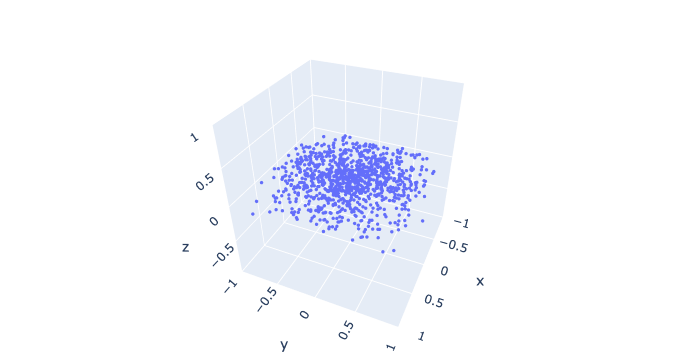
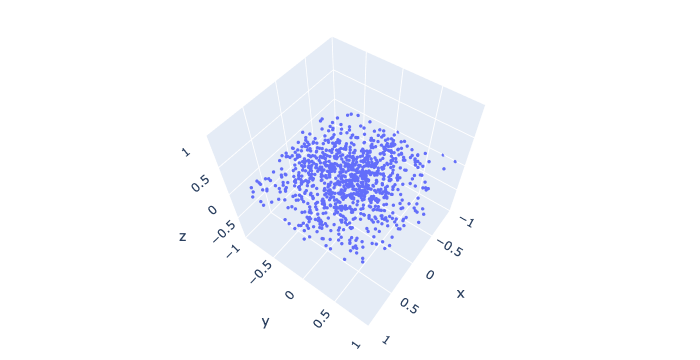
Did uniform disk for part 2. Also updated tent.png to an image that better shows the distribution

diff --git a/reports/assignment-2/report.md.html b/reports/assignment-2/report.md.html
@@ -29,7 +29,7 @@ For $t \in [0, 1]$:
 $$
 P_1(t) = P_1(0) + \int_{0}^{t} (1-s)ds = \frac{1}{2} + \left[s - \frac{s^2}{2}\right]_{0}^{t} = -\frac{t^2}{2} + t + \frac{1}{2}
 $$
-To find the inverse, we set $u = P_1(t)$ and solve for $t$.
+To find the inverse, set $u = P_1(t)$ and solve for $t$.
 
 For $u \in [0, 0.5]$, corresponding to $t \in [-1, 0]$:
 $$
@@ -48,8 +48,57 @@ $$
 t = P_1^{-1}(u) = \begin{cases} \sqrt{2u} - 1, & u \in [0, 0.5] \\ 1 - \sqrt{2 - 2u}, & u \in (0.5, 1] \end{cases}
 $$
 
-### Tent check_warp() Output
+### Tent visualize_warping_ui() Output
 ![Tent Distribution](images/tent.png)
+
+
+## Uniform Disk
+
+For a uniform distribution on a unit disk with radius $R = 1$ and area $A = $\pi R^2 = \pi$, the PDF is constant, $p(x,y) = 1/A = 1/\pi$. We map uniform samples $(u, v) \in [0,1]^2$ to polar coordinates $(r, \theta)$.
+
+The angle $\theta$ is uniformly distributed, so the mapping is direct:
+$$
+\theta = 2\pi v
+$$
+The probability density along the radius is not uniform. It is proportional to the radius, $p(r) \propto r$. Normalizing this PDF over $r \in [0, 1]$ gives $p(r) = 2r$.
+
+The probability density function (PDF) for the radius, $p(r)$, must be normalized so its integral over the domain $[0, 1]$ equals 1.
+
+We have $p(r) = c \cdot r$, where $c$ is the normalization constant. To find $c$:
+$$
+\int_{0}^{1} c \cdot r \,dr = 1
+$$
+$$
+= c \int_{0}^{1} r \,dr = c \left[ \frac{r^2}{2} \right]_{0}^{1} = c \left( \frac{1^2}{2} - \frac{0^2}{2} \right) = c \left( \frac{1}{2} \right) = 1
+$$
+$$
+\implies c = 2
+$$
+So the PDF is:
+$$
+p(r) = 2r
+$$
+
+The CDF for the radius is:
+$$
+P(r) = \int_{0}^{r} 2s\,ds = s^2 \Big|_0^r = r^2
+$$
+To invert the CDF, we set a uniform sample $u = P(r)$ and solve for $r$:
+$$
+u = r^2 \implies r = \sqrt{u}
+$$
+Combining these and converting to Cartesian coordinates gives the final mapping:
+$$
+x = r \cos(\theta) = \sqrt{u} \cos(2\pi v)
+$$
+$$
+y = r \sin(\theta) = \sqrt{u} \sin(2\pi v)
+$$
+
+### Uniform Disk visualize_warping_ui() Output
+![Uniform Disk Distribution](images/uniform_disk.png)
+
+
 
 
 # Point Light Integrator

diff --git a/aris/utils/sampling_utils.py b/aris/utils/sampling_utils.py
@@ -27,15 +27,20 @@ def sample_tent(uv: Tensor) -> Tensor:
 def pdf_tent(p: Tensor) -> Tensor:
     return (1 - torch.abs(p[:, 0])) * (1 - torch.abs(p[:, 1]))
 
+
 def sample_uniform_disk(uv: Tensor) -> Tensor:
-    r = None
-    theta = None
+    # u for radius, v for angle.
+    u = uv[:, 0]
+    v = uv[:, 1]
+
+    r = torch.sqrt(u)
+    theta = 2 * torch.pi * v
+
     return torch.stack([r * torch.cos(theta), r * torch.sin(theta)], dim=1)
 
 
 def pdf_uniform_disk(p: Tensor) -> Tensor:
-    return None
-
+    return torch.ones_like(p[:, 0]) / torch.pi
 
 def sample_uniform_sphere(uv: Tensor) -> Tensor:
     theta = None
